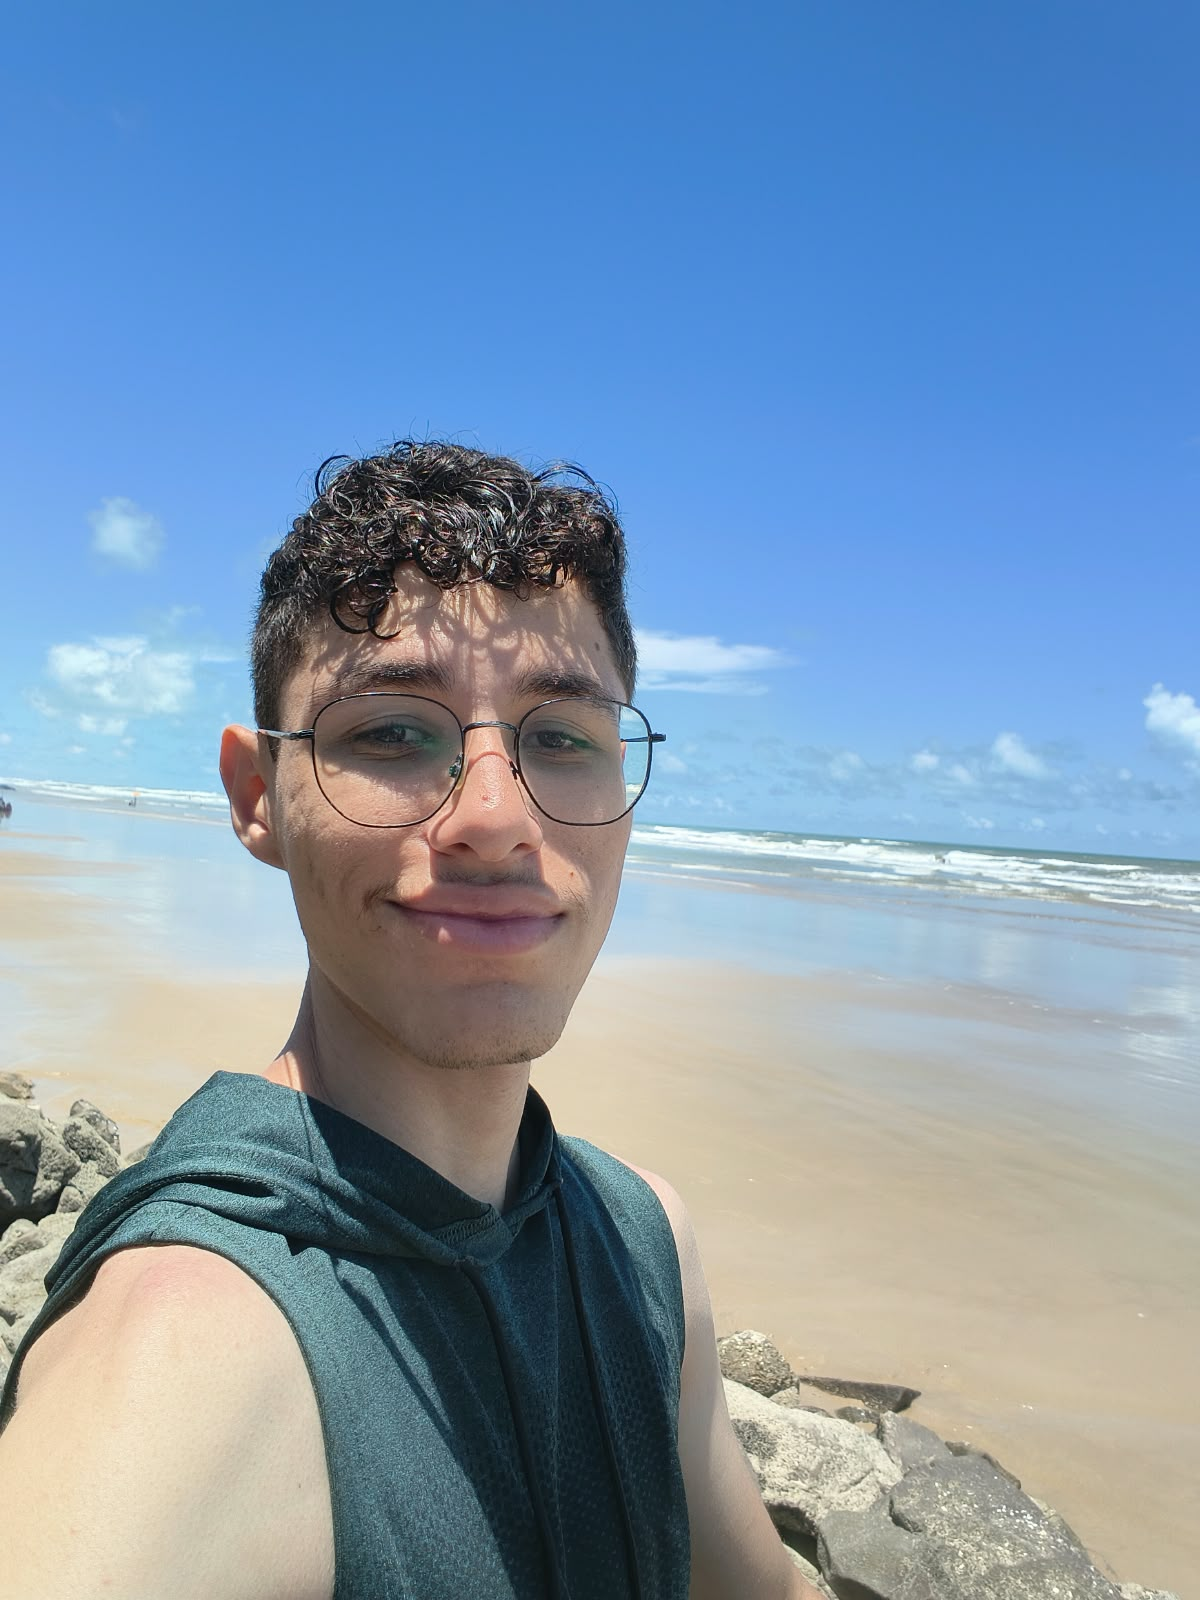
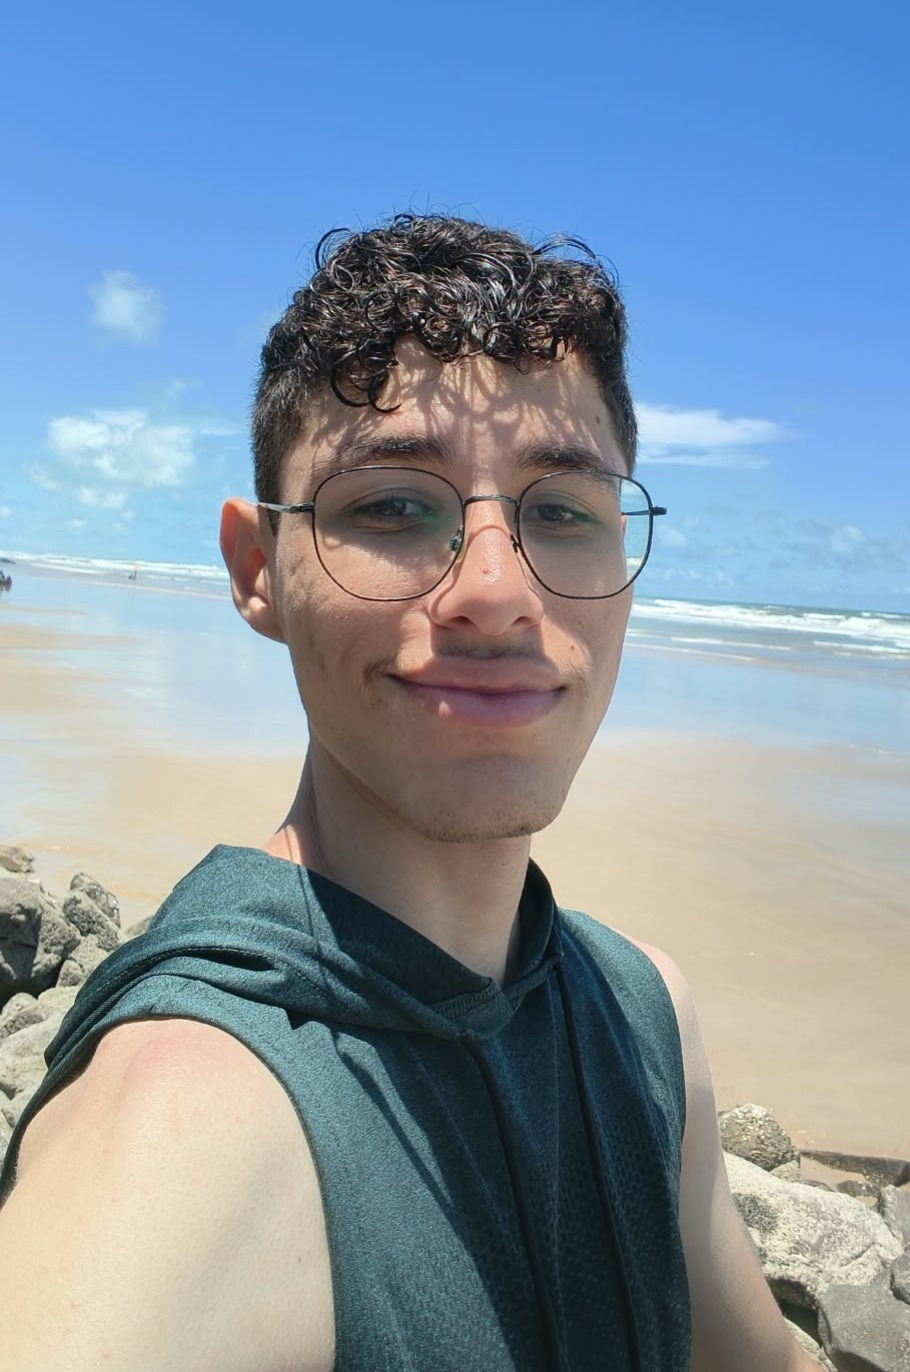
feat(vn): perfis da ECO, troca de sprite por capacete e correcoes de dialogo/lint
- Perfil (ECO) por equipamento como 1a fala do estagio (Nome (Profile): ...)

- Troca de sprite do protagonista por capacete (Ato 0 e Final Act)

- Fix de falas engolidas no typewriter (reset sincrono no render)

- Lint zerado (HomeTransitionVeil, StageLoadingScreen)

- Stage 4 (Phoenix) setting atualizado para a nova arte

diff --git a/src/components/vn/PrologueScreen.tsx b/src/components/vn/PrologueScreen.tsx
@@ -8,6 +8,7 @@ import {
 } from "../../config/characters";
 import { PROLOGUE_SCENE } from "../../data/missions/prologue";
 import { useGameStore } from "../../store/useGameStore";
+import type { SpriteExpression } from "../../config/sceneAssets";
 import type { CharacterId, LinearScene } from "../../types/novel";
 import { CharacterSprite } from "./CharacterSprite";
 import { DialogueBox } from "./DialogueBox";
@@ -51,6 +52,19 @@ export function LinearSceneScreen({
     }
     return [...present];
   }, [scene.lines, lineIndex, scene.protagonistAlwaysOnStage]);
+
+  // Estado do capacete do protagonista na fala atual. Deriva da última marca
+  // `protagonistHelmet` até aqui (inclusive). Default: `'on'` (de capacete),
+  // pois nas cenas de missão ele já está equipado; o Ato 0 marca `'off'` já na
+  // primeira fala dele. `'off'` usa o sprite sem capacete.
+  const protagonistExpression = useMemo<SpriteExpression>(() => {
+    let helmet: "on" | "off" = "on";
+    for (let i = 0; i <= lineIndex && i < scene.lines.length; i += 1) {
+      const marker = scene.lines[i].protagonistHelmet;
+      if (marker) helmet = marker;
+    }
+    return helmet === "off" ? "withoutHelmet" : "normal";
+  }, [scene.lines, lineIndex]);
 
   const fullText = withProtagonistName(line.text, playerName);
   const { visibleText, textComplete, skipToFullText } = useTypewriterText(
@@ -104,7 +118,10 @@ export function LinearSceneScreen({
         {onStage.map((characterId) => {
           const character = getCharacter(characterId);
           if (!character) return null;
-          const spriteSrc = getCharacterSpriteSrc(character.id);
+          const spriteSrc =
+            character.id === "protagonist"
+              ? getCharacterSpriteSrc(character.id, protagonistExpression)
+              : getCharacterSpriteSrc(character.id);
           const label =
             character.id === "protagonist"
               ? displayName

diff --git a/src/components/vn/useTypewriterText.ts b/src/components/vn/useTypewriterText.ts
@@ -2,14 +2,38 @@ import { useEffect, useRef, useState } from "react";
 
 const TYPEWRITER_MS = 28;
 
+/**
+ * Efeito máquina de escrever para uma fala.
+ *
+ * Correção importante (falas "engolidas"): o reset do texto ao trocar de fala é
+ * feito DURANTE O RENDER, com o padrão oficial do React de "ajustar estado
+ * quando uma prop muda" (guardar a chave anterior em ESTADO e comparar no
+ * render). Se o reset ficasse só num efeito, o primeiro frame da nova fala
+ * ainda carregava o estado da fala anterior (`textComplete = true`,
+ * `visibleText` = texto antigo). Um clique nessa janela era interpretado como
+ * "a fala já terminou", e o `advance` pulava a fala inteira. Resetando no
+ * render, a fala nova nunca aparece como concluída antes de ser digitada.
+ *
+ * Ref.: https://react.dev/reference/react/useState#storing-information-from-previous-renders
+ */
 export function useTypewriterText(fullText: string, lineKey: string | number) {
   const [visibleText, setVisibleText] = useState("");
   const [textComplete, setTextComplete] = useState(false);
+  const [renderedKey, setRenderedKey] = useState<string | number>(lineKey);
   const timerRef = useRef<number | null>(null);
 
-  useEffect(() => {
+  // Reset SÍNCRONO ao trocar de fala (durante o render). Garante que a nova
+  // fala comece vazia e "não concluída" no MESMO frame, sem janela de estado
+  // obsoleto em que um clique pularia a fala. Fala vazia já entra concluída.
+  if (renderedKey !== lineKey) {
+    setRenderedKey(lineKey);
     setVisibleText("");
-    setTextComplete(false);
+    setTextComplete(fullText.length === 0);
+  }
+
+  useEffect(() => {
+    // Fala vazia: nada a digitar (já marcada concluída no render).
+    if (fullText.length === 0) return;
 
     let index = 0;
     timerRef.current = window.setInterval(() => {

diff --git a/src/components/vn/HomeTransitionVeil.tsx b/src/components/vn/HomeTransitionVeil.tsx
@@ -1,4 +1,4 @@
-import { useEffect, useState } from "react";
+import { useState } from "react";
 import { AnimatePresence, motion } from "framer-motion";
 import { useGameStore } from "../../store/useGameStore";
 
@@ -14,12 +14,17 @@ export function HomeTransitionVeil() {
   const pendingFadeTo = useGameStore((state) => state.pendingFadeTo);
   const commitFade = useGameStore((state) => state.commitFade);
   const [phase, setPhase] = useState<VeilPhase | null>(null);
+  // Guarda a borda de subida de `pendingFadeTo`: inicia o véu ("cover") no
+  // MESMO render em que um fade é solicitado, sem usar um efeito (padrão oficial
+  // de ajustar estado durante o render ao detectar mudança de prop/valor).
+  const [sawPending, setSawPending] = useState(false);
 
-  useEffect(() => {
-    if (pendingFadeTo && phase === null) {
-      setPhase("cover");
-    }
-  }, [pendingFadeTo, phase]);
+  if (pendingFadeTo && !sawPending) {
+    setSawPending(true);
+    if (phase === null) setPhase("cover");
+  } else if (!pendingFadeTo && sawPending) {
+    setSawPending(false);
+  }
 
   const visible = phase !== null;
   const targetOpacity = phase === "cover" ? 1 : 0;

diff --git a/src/data/missions/prologue.ts b/src/data/missions/prologue.ts
@@ -31,6 +31,8 @@ export const PROLOGUE_SCENE: LinearScene = {
       speakerId: 'protagonist',
       // Protagonista já está em cena (sempre à esquerda) desde o início.
       entersCharacterId: 'protagonist',
+      // No sótão ele ainda não colocou o capacete → sprite sem capacete.
+      protagonistHelmet: 'off',
       text: 'Grandpa, why do you keep all this old junk? Nobody cares about this stuff anymore.',
     },
     {
@@ -71,6 +73,8 @@ export const PROLOGUE_SCENE: LinearScene = {
       // Avô Tadeu sai de cena quando o protagonista coloca o capacete e a
       // cena transita para a Eco / sistema do capacete.
       exitsCharacterId: 'grandpa-tadeu',
+      // A partir daqui ele está de capacete → sprite normal.
+      protagonistHelmet: 'on',
       text: `(${PROTAGONIST_NAME_TOKEN} puts on the helmet. The lights flicker on and the visor powers up.)`,
     },
     {

diff --git a/src/types/novel.ts b/src/types/novel.ts
@@ -77,6 +77,15 @@ export interface ScriptLine {
    * O texto não é alterado — só dividido. Ver `useSplitItemLines`.
    */
   isItemDescription?: boolean;
+  /**
+   * Marca uma transição do capacete do protagonista A PARTIR desta fala
+   * (inclusive) até a próxima transição. `'off'` mostra o sprite sem capacete
+   * (`player-without-helmet.png`); `'on'` mostra o sprite normal com capacete.
+   * As cenas lineares consomem isto para trocar o sprite no momento certo
+   * (ex.: Ato 0 começa `off` e vira `on` quando ele coloca o capacete; o Final
+   * Act vira `off` quando ele o tira). Sem marca, mantém o estado anterior.
+   */
+  protagonistHelmet?: "on" | "off";
 }
 
 /** Roteiro de uma cena linear (prólogo/epílogo). */

diff --git a/src/config/sceneAssets.ts b/src/config/sceneAssets.ts
@@ -38,7 +38,12 @@ export const BACKGROUND_ASSETS = {
 } as const;
 
 /** Expressões disponíveis nos arquivos de sprite. */
-export type SpriteExpression = "normal" | "proud" | "sad" | "glitch";
+export type SpriteExpression =
+  | "normal"
+  | "proud"
+  | "sad"
+  | "glitch"
+  | "withoutHelmet";
 
 type SpritePack = Partial<Record<SpriteExpression, string>> & {
   normal: string;
@@ -54,6 +59,7 @@ export const CHARACTER_SPRITES = {
     proud: "/assets/sprites/player/player-proud.png",
     sad: "/assets/sprites/player/player-sad.png",
     glitch: "/assets/sprites/player/player-glitch.png",
+    withoutHelmet: "/assets/sprites/player/player-without-helmet.png",
   },
   eco: {
     normal: "/assets/sprites/eco/eco-normal.png",

diff --git a/src/components/vn/StageLoadingScreen.tsx b/src/components/vn/StageLoadingScreen.tsx
@@ -35,6 +35,12 @@ export function StageLoadingScreen({
   const [iconFailed, setIconFailed] = useState(false);
   const onCompleteRef = useRef(onComplete);
 
+  // Mantém a ref de `onComplete` sempre atual, sem reiniciar o timer de carga
+  // (o efeito de carga não deve depender da identidade da callback).
+  useEffect(() => {
+    onCompleteRef.current = onComplete;
+  }, [onComplete]);
+
   useEffect(() => {
     let cancelled = false;
     for (const src of LOADING_ICON_SOURCES) {
@@ -48,7 +54,6 @@ export function StageLoadingScreen({
       cancelled = true;
     };
   }, []);
-  onCompleteRef.current = onComplete;
 
   useEffect(() => {
     let cancelled = false;

diff --git a/src/data/missions/phoenix.ts b/src/data/missions/phoenix.ts
@@ -21,6 +21,11 @@ export const PHOENIX_STAGE: StageScript = {
       id: 'phoenix-choice-1',
       lines: [
         {
+          id: 'phoenix-profile',
+          speakerId: 'eco',
+          text: 'Phoenix (Profile): Curious, bubbly, and a total science geek. Loves experiments, questions, and discoveries. Can\'t stand being treated like “just hardware” or being interrupted mid-explanation.',
+        },
+        {
           id: 'phoenix-intro-1',
           speakerId: 'phoenix',
           entersCharacterId: 'phoenix',

diff --git a/src/data/missions/lrv.ts b/src/data/missions/lrv.ts
@@ -21,6 +21,11 @@ export const LRV_STAGE: StageScript = {
       id: 'lrv-choice-1',
       lines: [
         {
+          id: 'lrv-profile',
+          speakerId: 'eco',
+          text: 'LRV (Profile): Playful, chatty, and bursting with energy, like kids who never grew up. They love adventure, jokes, and being treated like buddies. They hate formality and can\'t stand being seen as mere “tools.”',
+        },
+        {
           id: 'lrv-intro-1',
           speakerId: 'lrv',
           entersCharacterId: 'lrv',

diff --git a/src/data/missions/eagle.ts b/src/data/missions/eagle.ts
@@ -24,6 +24,11 @@ export const EAGLE_STAGE: StageScript = {
       id: 'eagle-choice-1',
       lines: [
         {
+          id: 'eagle-profile',
+          speakerId: 'eco',
+          text: 'Eagle (Profile): Solemn, dignified, and a bit melancholic. He is the oldest and the most famous. He values respect, quiet, and teamwork. He can\'t stand being treated like a celebrity or like junk.',
+        },
+        {
           id: 'eagle-intro-1',
           speakerId: 'eagle',
           entersCharacterId: 'eagle',

diff --git a/src/data/missions/spirit.ts b/src/data/missions/spirit.ts
@@ -22,6 +22,11 @@ export const SPIRIT_STAGE: StageScript = {
       id: 'spirit-choice-1',
       lines: [
         {
+          id: 'spirit-profile',
+          speakerId: 'eco',
+          text: 'Spirit (Profile): Serene, poetic, and sleepy. Relentlessly persistent, yet never dramatic. Values hope and genuine warmth. Refuses pity and hates being seen as a “failure.”',
+        },
+        {
           id: 'spirit-intro-1',
           speakerId: 'spirit',
           entersCharacterId: 'spirit',

diff --git a/src/data/missions/finalAct.ts b/src/data/missions/finalAct.ts
@@ -64,6 +64,8 @@ export const FINAL_ACT_SCENE: LinearScene = {
       id: 'final-return-note',
       speakerId: 'narrator',
       exitsCharacterId: 'eco',
+      // A partir daqui ele tira o capacete → sprite sem capacete.
+      protagonistHelmet: 'off',
       text: '({PROTAGONIST_NAME} takes off the helmet, returning to the attic. Grandpa Tadeu stands beside them, smiling.)',
     },
     {
